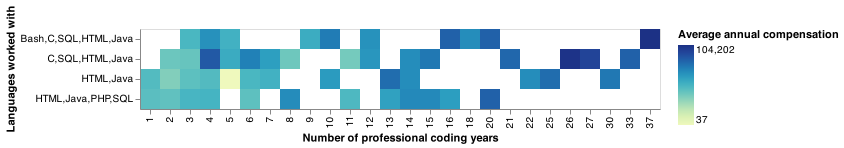
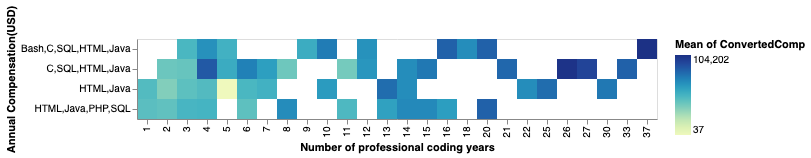
add docker related

Changed region(s): [[0.0, 0.027, 1.0, 0.973], [0.3391, 0.8919, 0.6165, 0.973]]

diff --git a/src/eda.py b/src/eda.py
@@ -64,7 +64,7 @@ def main(train, out_dir):
 
     language_codeyears_plot = alt.Chart(tech_df).mark_rect().encode(
         alt.Y('LanguageWorkedWith:N', title='Languages worked with'), 
-        alt.X('YearsCodePro:N', title='Number of professional coding years'),
+        alt.X('YearsCodePro:N', title='Number of professional coding years', axis=alt.Axis(labelAngle=0)),
         alt.Color('mean(ConvertedComp)', title='Average annual compensation')
         )
 
@@ -94,7 +94,7 @@ def main(train, out_dir):
         'ConvertedComp',
          as_=['ConvertedComp', 'Density'])  # Give the name "density" the KDE columns we just created
         .mark_area(opacity=0.8).encode(
-        x=alt.X('ConvertedComp'),
+        x=alt.X('ConvertedComp', title='Annual Compensation(USD)'),
         y='Density:Q'))
     
     # save all the plots in the out_dir

diff --git a/src/salary_prediction_model.py b/src/salary_prediction_model.py
@@ -121,7 +121,6 @@ def build_model(train_df, out_dir, test_df=None):
     cv_df = pd.DataFrame(random_search.cv_results_)[["param_ridge__alpha", 
                                                      "mean_test_score", "mean_train_score"]]
     cv_df.set_index("param_ridge__alpha").plot(logx=True)
-    plt.title('Train score and test score as alpha parameter increases')
     plt.xlabel("Alpha")
     plt.ylabel("Score")
     plt.savefig(f"{out_dir}/alpha-tuning.png")

diff --git a/CODE_OF_CONDUCT.md b/CODE_OF_CONDUCT.md
@@ -17,7 +17,7 @@ Examples of unacceptable behavior by participants include:
 ### Our responsibilities
 Project maintainers are responsible for clarifying the standards of acceptable behavior and are expected to take appropriate and fair corrective action in response to any instances of unacceptable behavior.
 
-Project maintainers have the right and responsibility to remove, edit, or reject comments, commits, code, wiki edits, issues, and other contributions that are not aligned to this Code of Conduct, or to ban temporarily or permanently any contributor for other behaviors that they deem inappropriate, threatening, offensive, or harmful.
+Project maintainers have the right and responsibility to remove, edit, or reject comments, commits, code, wiki edits, issues, and other contributions that are not aligned to this Code of Conduct, or to ban temporarily or permanently any contributor for other behaviors that they deem inappropriate, threatening, offensive, or harmful. If a group member is violating any of the expectations outlined in this document please bring the incident to the attention of the current project maintainers as [Jiwei Hu](mailto:jinglu_cui@163.com), [Sanchit Singh](mailto:jinglu_cui@163.com), [Khalid Abdilahi](mailto:jinglu_cui@163.com) and [Vera Cui](mailto:jinglu_cui@163.com).
 
 ### Scope
 This Code of Conduct applies both within project spaces and in public spaces when an individual is representing the project or its community. Examples of representing a project or community include using an official project e-mail address, posting via an official social media account, or acting as an appointed representative at an online or offline event. Representation of a project may be further defined and clarified by project maintainers.
